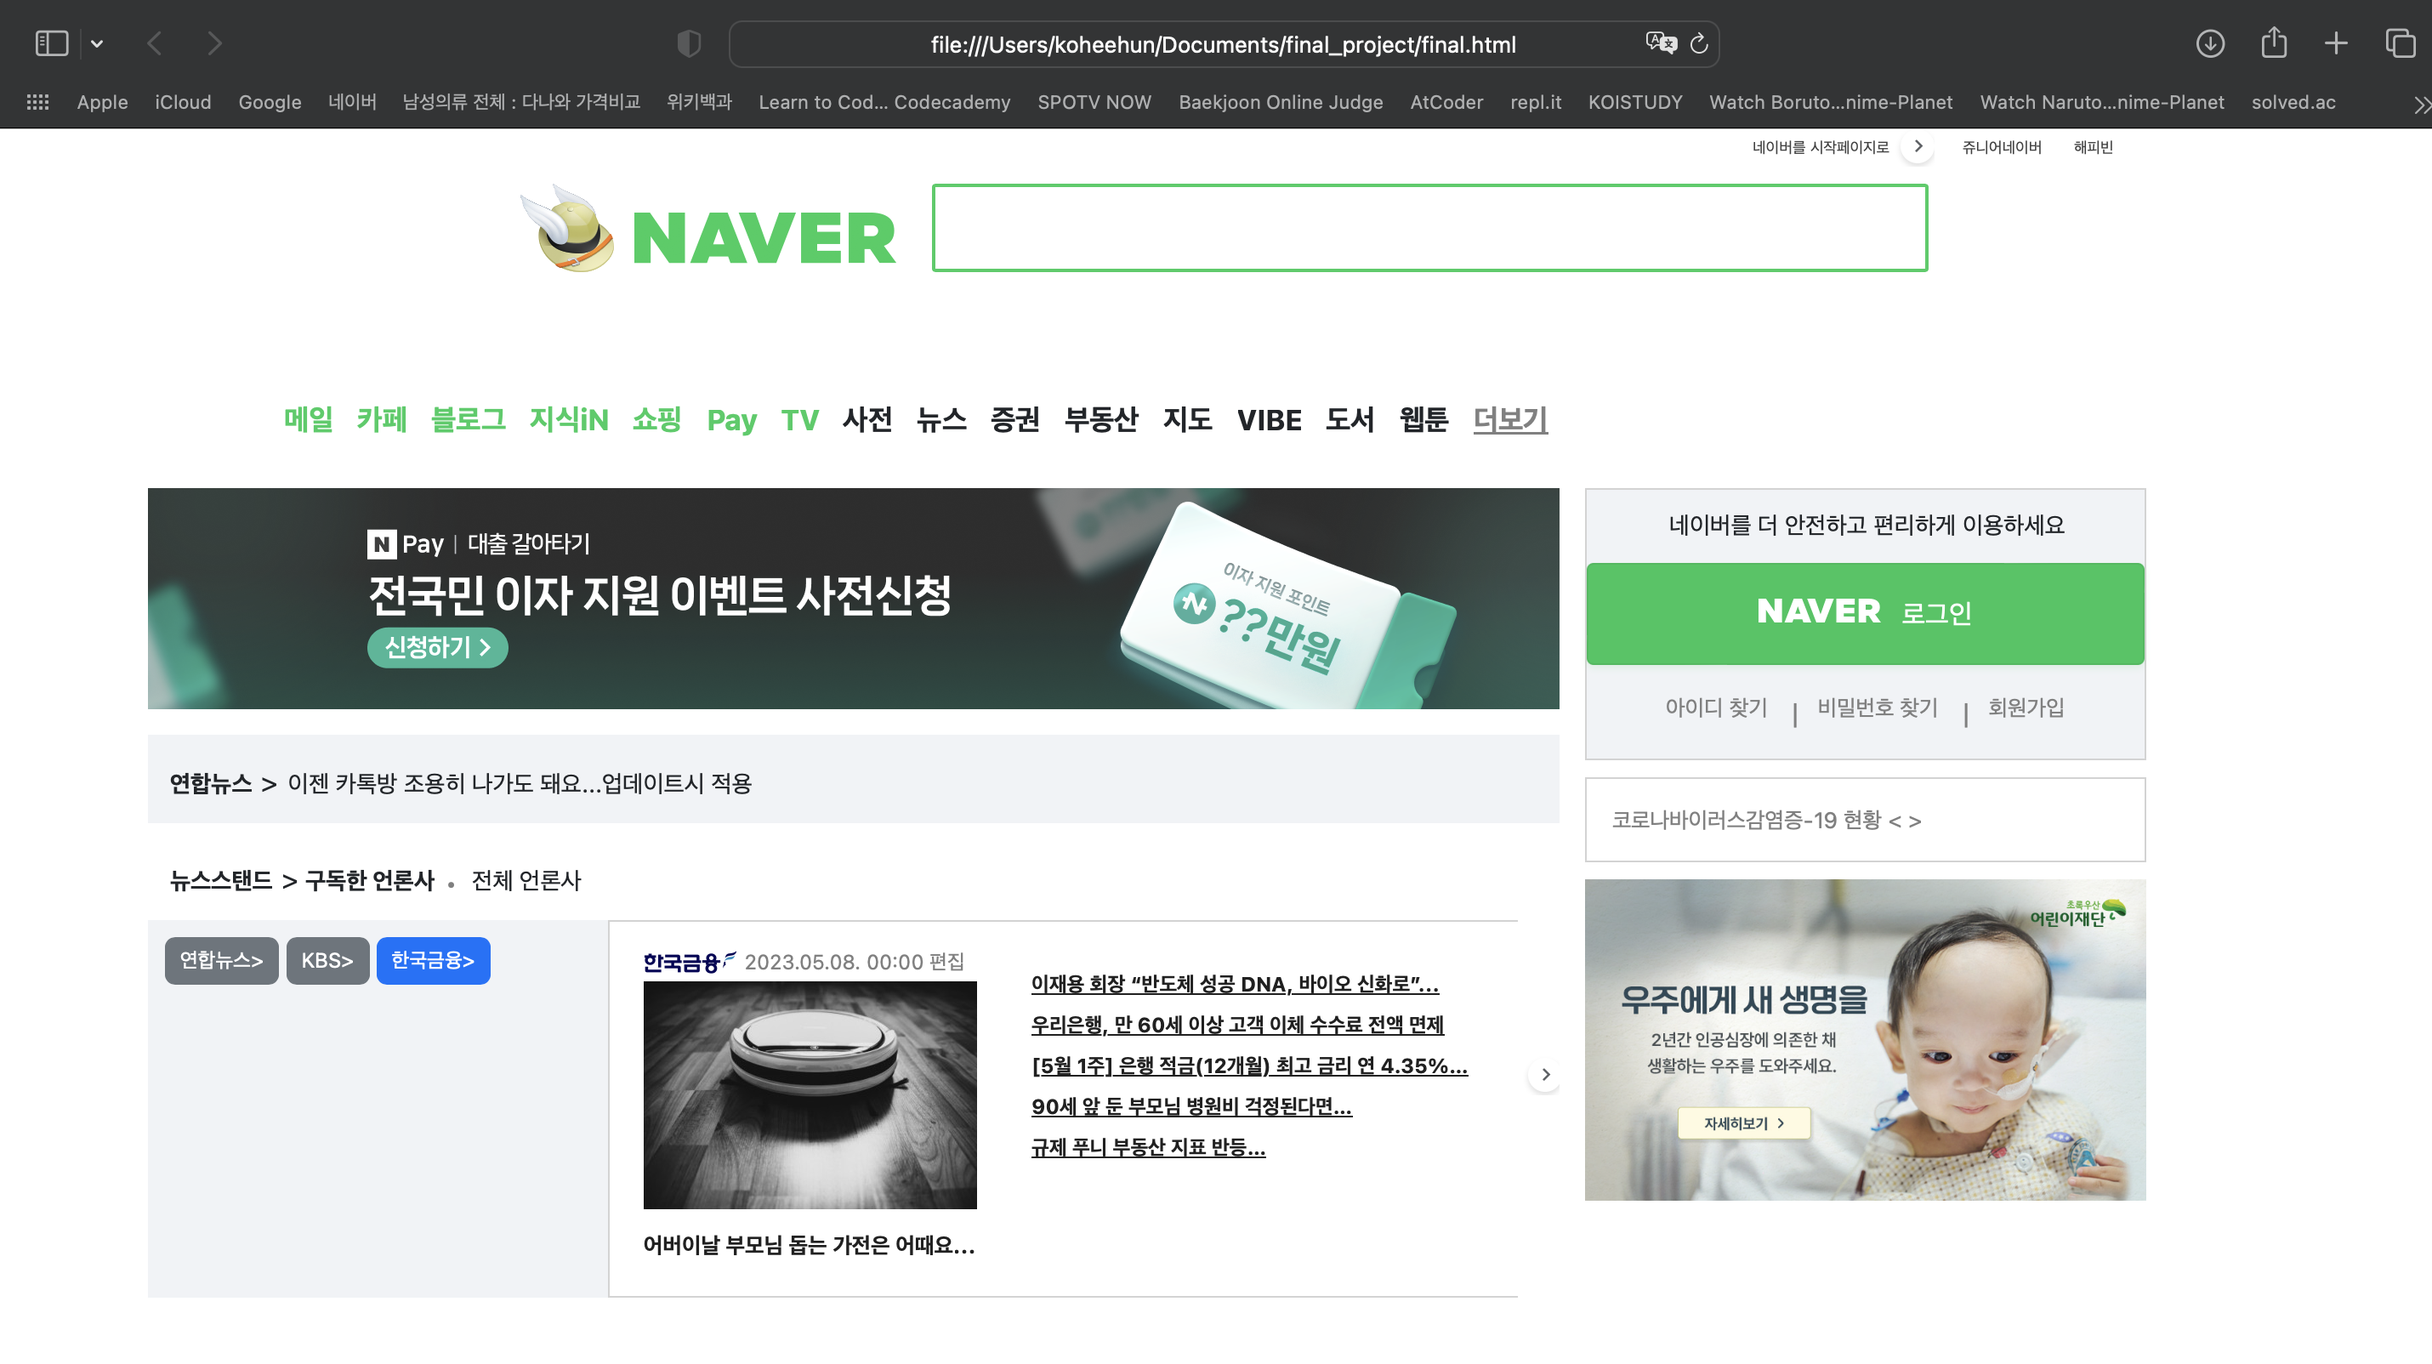
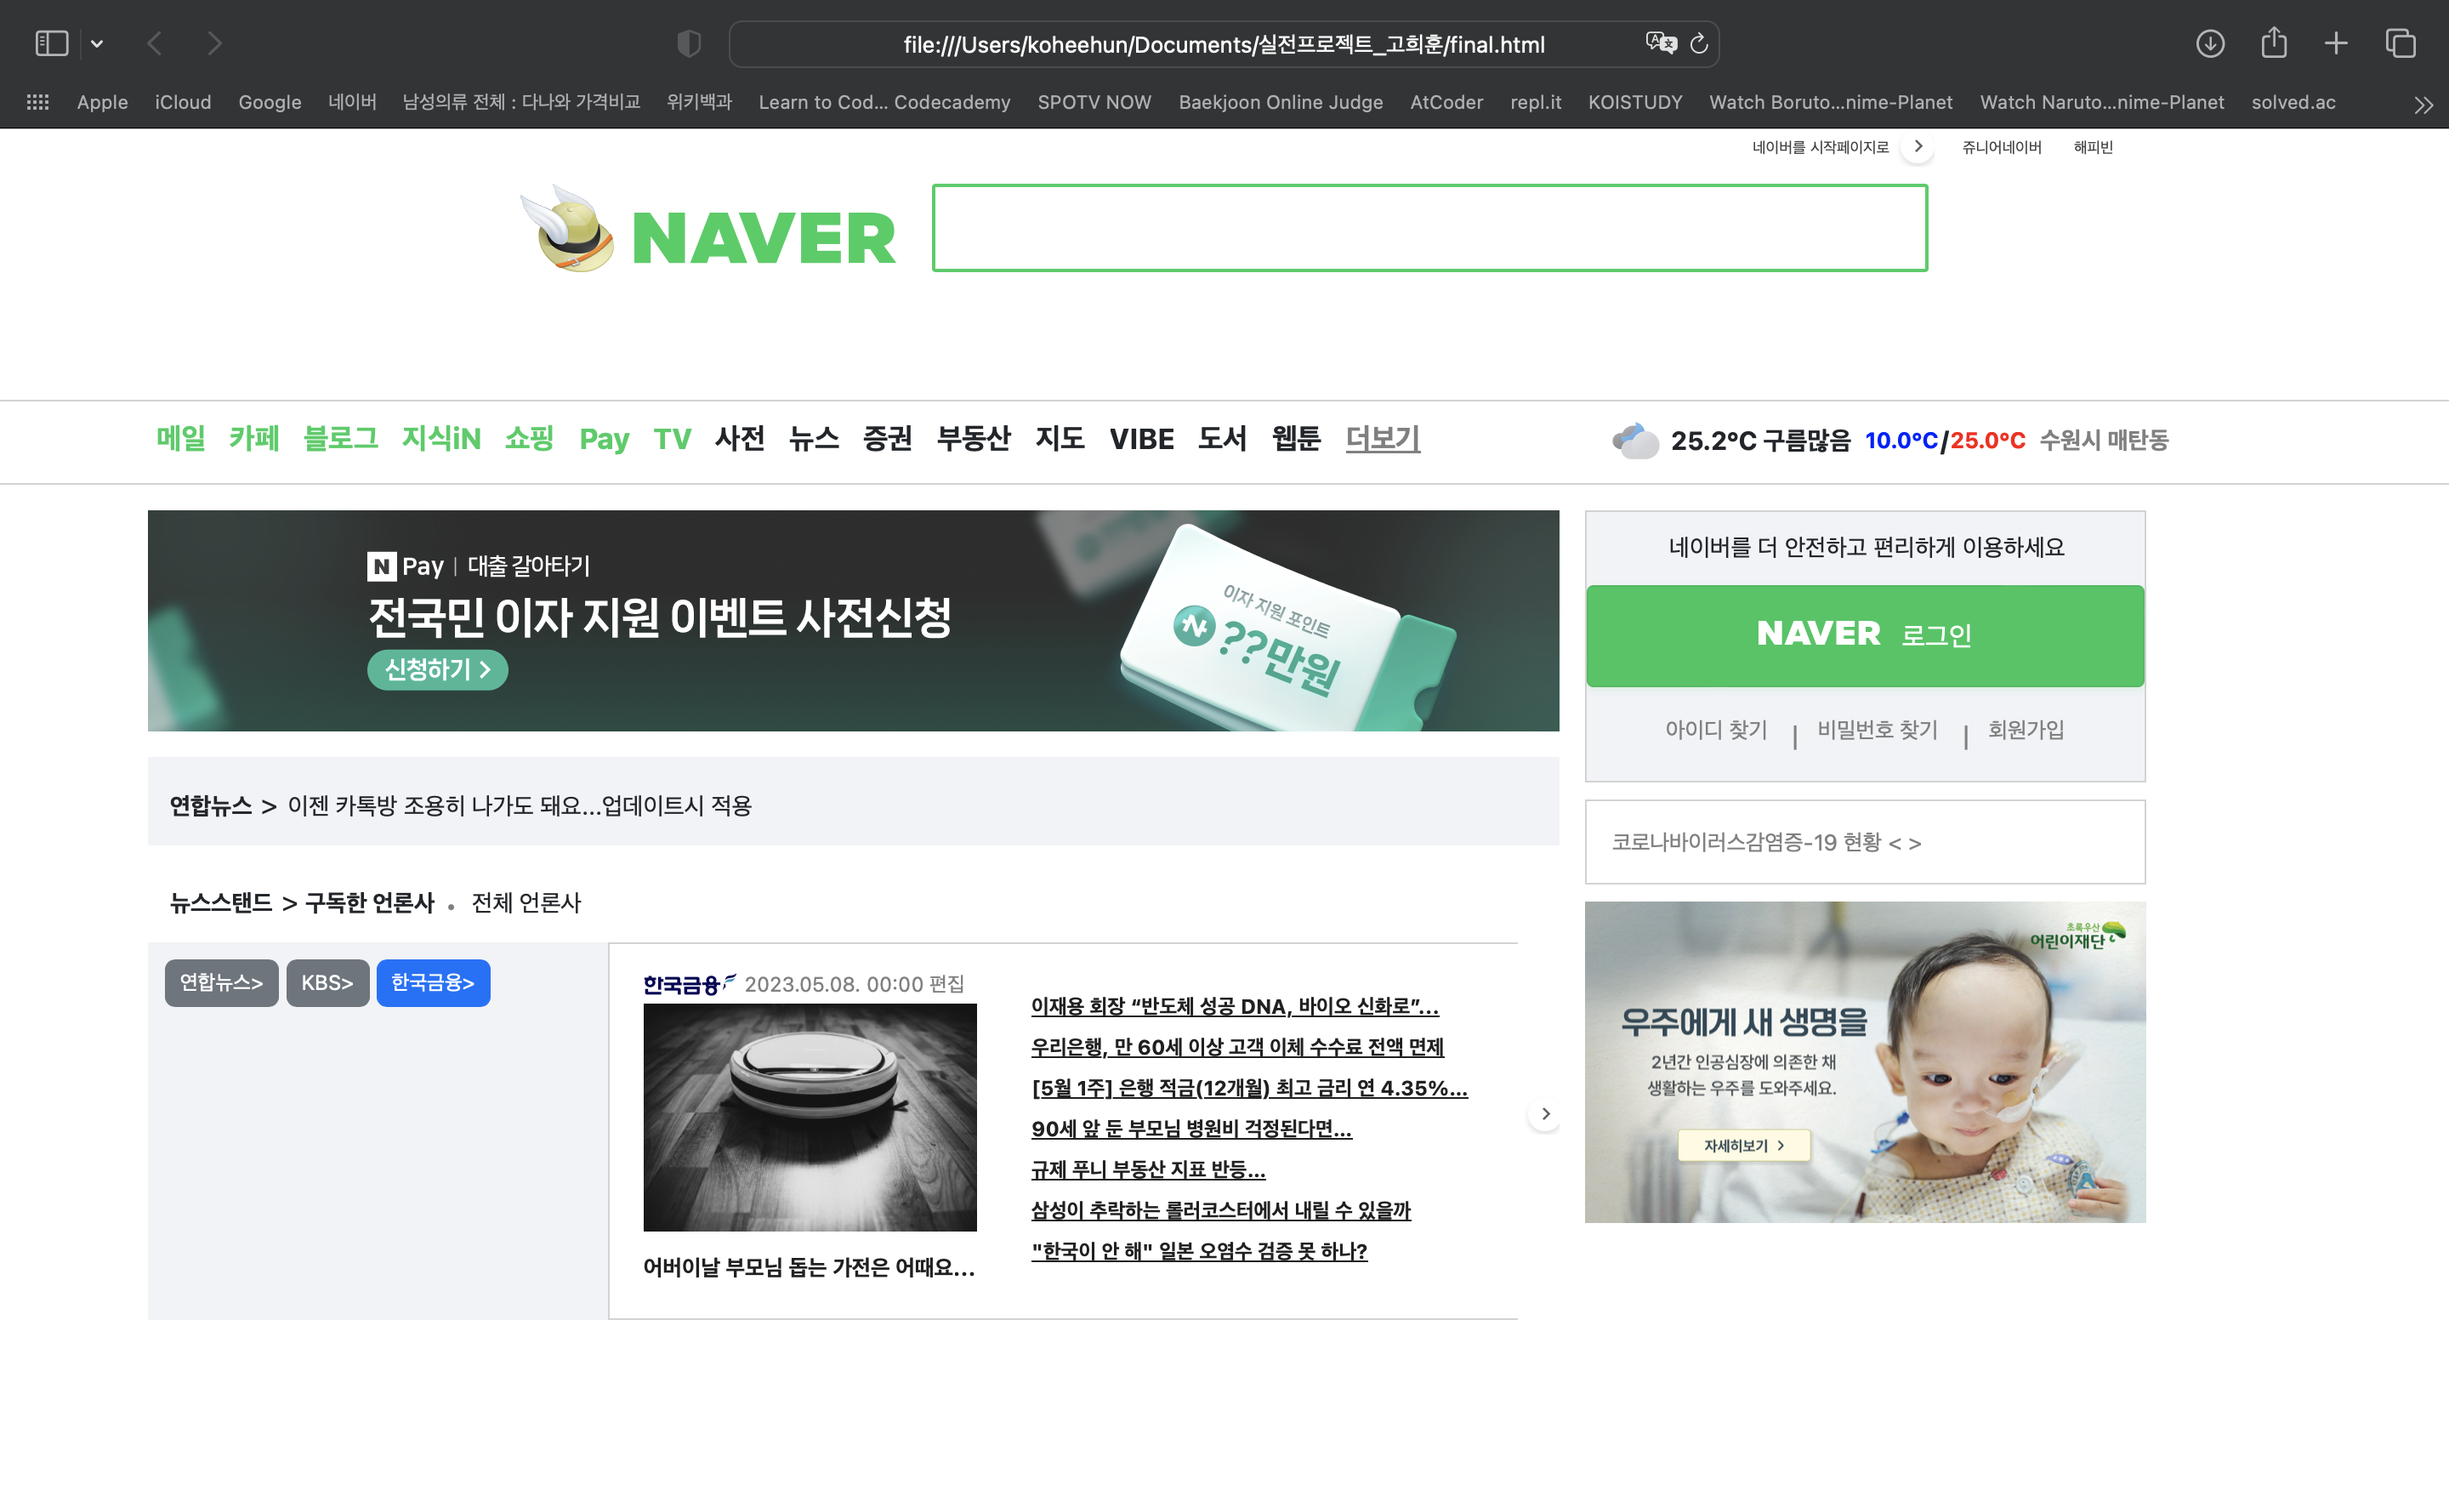
Add files via upload

diff --git a/finalweek/실전프로젝트_고희훈/style.css b/finalweek/실전프로젝트_고희훈/style.css
@@ -6,28 +6,32 @@
 }
 
 .gnb {
-    width: 1190px;
-    height: 52px;
-    margin: 0 auto;
+    display: flex;
+    width: 1450px;
+    height: 50px;
+    margin-bottom: 15px;
+    padding-top:13px;
+    border-top: 1px solid lightgrey;
+    border-bottom: 1px solid lightgrey;
 
 }
 
 .container {
     display: flex;
     width: 1190px;
-    height: 2857.5px;
+    height: 500px;
   
     margin: 0 auto;
 }
 
 .left_container {
     width: 860px;
-    height:2857.5px;
+    height: 500px;
 
 }
 .right_container {
     width: 330px;
-    height: 2957.5px;
+    height: 500px;
 }
 
 .service_area_wrapper {
@@ -115,10 +119,12 @@ border-radius: 2px;
 
 .item {
     display: flex;
+    margin-left:50px;
     justify-content: space-between;
     align-items: center;
     font-size: 17px;
     font-weight: bold;
+    
   }
 .item ul > li {
     display: inline-block;
@@ -127,6 +133,46 @@ border-radius: 2px;
 .item ul > li:nth-child(-n + 7) > a { 
     color: #19ce60;
 }
+
+.weather {
+    display: flex;
+    margin-left:110px;
+    justify-content: space-between;
+    align-items: center;
+    font-size: 15px;
+    font-weight: bold;
+  }
+.temp1 {
+    padding-top:1px;
+    margin-left:8px;
+    margin-right:1px;
+    font-size: 13px;
+    color: blue;
+}
+.temp2 {
+    padding-top:1px;
+    margin-left:1px;
+    color: red;
+    font-size:13px;
+}
+.address {
+    margin-left:8px;
+    font-size: 14px;
+    color: #808080;
+}
+.weather::before{
+    content: "";
+    display: block;
+    background-image: url(https://pm.pstatic.net/resources/asset/sp_weather.11654bc0.png);
+    background-size: 641px 587px;
+    background-position: -165px -522px;
+    background-repeat: no-repeat;
+    width: 32px;
+    height: 32px;
+    margin-bottom:15px;
+    margin-right:5px;
+}
+
 
 
 
@@ -337,7 +383,7 @@ border-radius: 2px;
 
 }
 .big_box::after {
-    margin-top: 80px;
+    margin-top: 90px;
     background-image: url(https://s.pstatic.net/static/www/img/uit/sp_main_947f65.png);
     -webkit-background-size: 442px 428px;
     background-size: 442px 428px;

diff --git a/finalweek/실전프로젝트_고희훈/final.html b/finalweek/실전프로젝트_고희훈/final.html
@@ -43,6 +43,13 @@
                 <li><a class="option">더보기</a></li>
             </ul>
         </div>
+        <div class="weather">
+            <p>25.2°C 구름많음</p>
+            <p class="temp1">10.0°C</p>
+            <p>/</p>
+            <p class="temp2">25.0°C</p>
+            <p class="address">수원시 매탄동</p>
+        </div>
     </div> 
     <div class="container">
         <div class="left_container">
@@ -95,6 +102,8 @@
                                 <li style="list-style:none;"><a class="aa">[5월 1주] 은행 적금(12개월) 최고 금리 연 4.35%…</a></li>
                                 <li style="list-style:none;"><a class="aa">90세 앞 둔 부모님 병원비 걱정된다면…</a></li>
                                 <li style="list-style:none;"><a class="aa">규제 푸니 부동산 지표 반등…</a></li>
+                                <li style="list-style:none;"><a class="aa">삼성이 추락하는 롤러코스터에서 내릴 수 있을까</a></li>
+                                <li style="list-style:none;"><a class="aa">"한국이 안 해" 일본 오염수 검증 못 하나?</a></li>
                             </ul>
                         </div>
                     </div>
